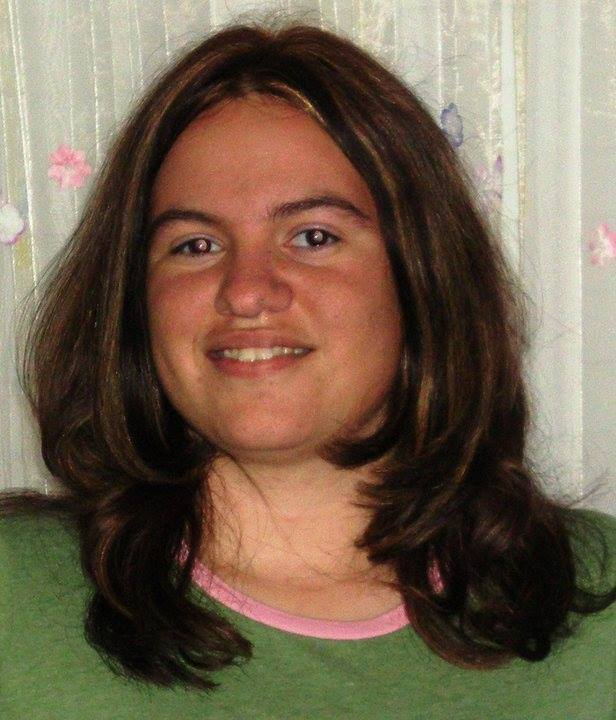
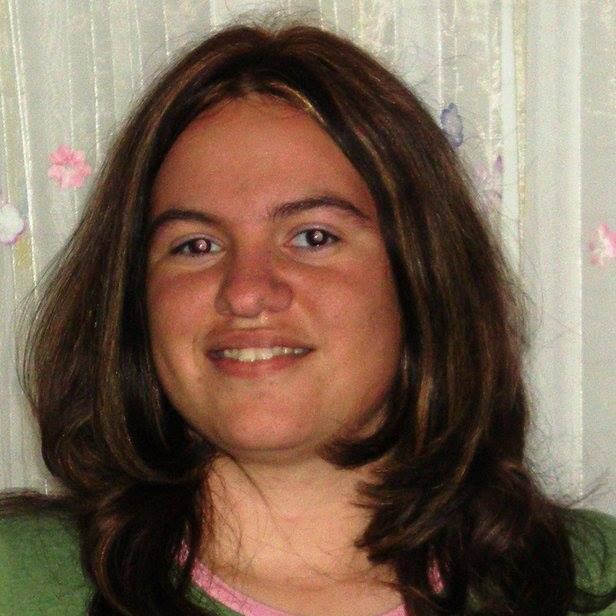
About page
fixed the images and resized them

diff --git a/css/styles.css b/css/styles.css
@@ -254,6 +254,13 @@ nav a#pull {
 		font-size:1.8em;
 	}
 	
+
+	/*About Page*/ 
+	#members img{
+		width:40%;
+		height:auto;
+	}
+	
 }
 
 /*Styles for iPhone screen*/
@@ -871,6 +878,13 @@ footer a:link, a:active, a:visited {
 
 #signin .subheadings{
 	width:300px;
+}
+
+/*About Page*/
+
+#members img{
+	float:left;
+	margin-left:5%;
 }
 
 

diff --git a/about.php b/about.php
@@ -73,18 +73,13 @@ $row = mysql_fetch_array($result);
                             <div class="sectionInfo">
                                 <h3 class="subheadings">Team Members</h3>
                                 </div>
-                            <div class="c6">
-                            <img src="img/angie.jpg" alt="members" width="200" height="80">
+                            <div >
+                            <div id="members">
+                                <img src="img/angie.jpg" alt="members">
+                                <img src="img/jennifer.jpg" alt="members">
+                                <img src="img/shaun.jpg" alt="members">
+                                <img src="img/stephanie.jpg" alt="members">
                             </div>
-                            <div class="c6">
-                            <img src="img/jennifer.jpg" alt="members" width="200" height="80">
-                            </div>
-                             <div class="c6">
-                            <img src="img/shaun.jpg" alt="members" width="200" height="80">
-                            </div>
-           
-                            <div class="c6">
-                            <img src="img/stephanie.jpg" alt="members" width="200" height="80">
                             </div>              
 
                 </div>  

diff --git a/home.php b/home.php
@@ -1,11 +1,9 @@
 <?php
 session_start();
 
- error_reporting( error_reporting() & ~E_NOTICE );
-
-//include("includes/config.php");
-//$result = mysqli_query($con, "SELECT * FROM products WHERE category = 'Beverage'");
-//$row = mysqli_fetch_array($result);
+include("includes/config.php");
+$result = mysqli_query($con, "SELECT * FROM products WHERE category = 'Beverage'");
+$row = mysqli_fetch_array($result);
 ?>
 
 <!doctype html>
